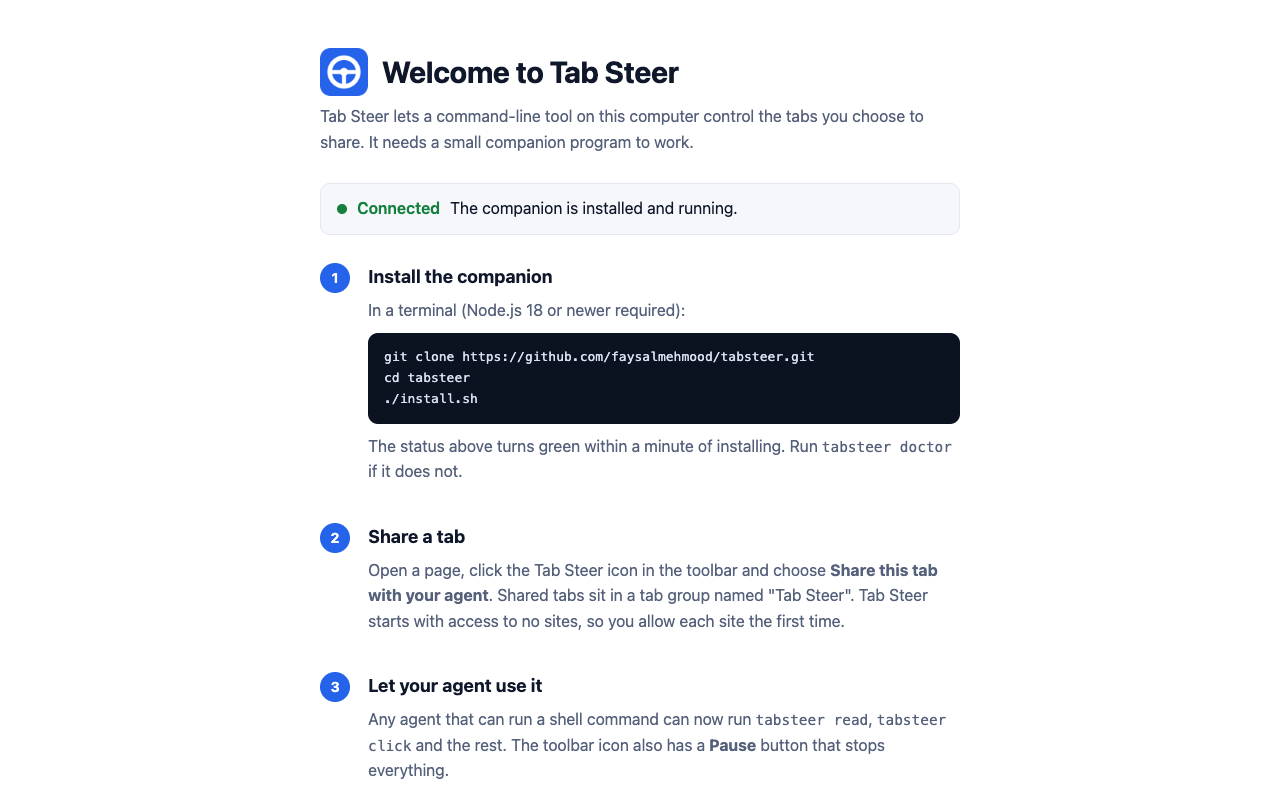
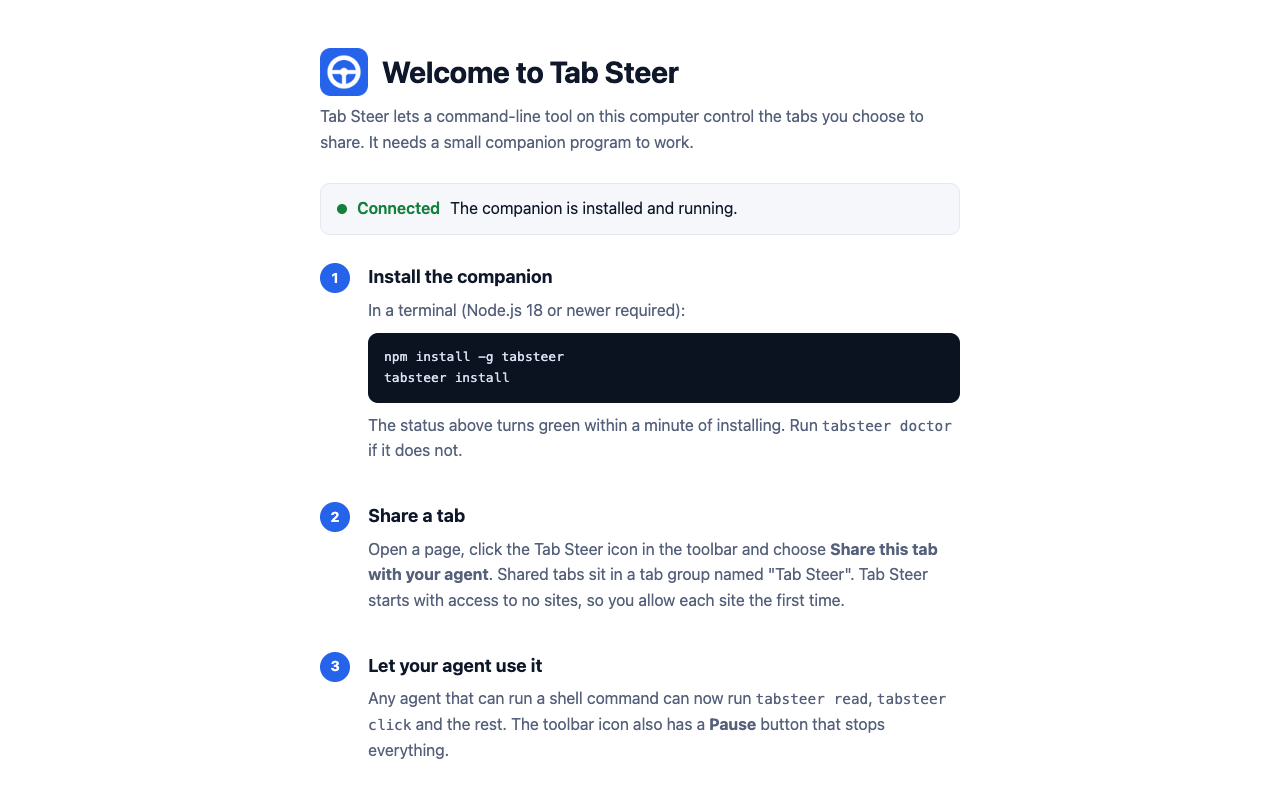
Release 0.1.1: npm install steps in the extension, looser version check
The welcome page and popup now tell users to install the companion from
npm. tabsteer doctor accepts an extension and CLI that share a major.minor
version, since the two update through different channels. The install
message no longer tells Chrome Web Store users to load the extension by hand.

Changed region(s): [[0.25, 0.625, 0.75, 0.7812], [0.2812, 0.4375, 0.75, 0.5938], [0.25, 0.8125, 0.75, 0.9688]]

diff --git a/lib/setup.js b/lib/setup.js
@@ -114,13 +114,14 @@ function install({ flags }) {
   }
 
   console.log(`
-Last step, in the browser (once):
-  1. Open chrome://extensions and turn on "Developer mode".
-  2. Click "Load unpacked" and choose:
-     ${EXTENSION_DIR}
-  3. Click the Tab Steer toolbar icon on a tab and share it.
+Next, the extension:
+  If you installed Tab Steer from the Chrome Web Store, it connects within a minute.
+  Otherwise load it by hand:
+    1. Open chrome://extensions and turn on "Developer mode".
+    2. Click "Load unpacked" and choose:
+       ${EXTENSION_DIR}
 
-Then check everything with: tabsteer doctor`);
+Then click the Tab Steer toolbar icon on a tab to share it, and check the setup with: tabsteer doctor`);
 }
 
 function uninstall() {
@@ -191,7 +192,9 @@ async function doctor({ request }) {
     status = await request('status');
   } catch (e) {}
   if (check(!!status, 'Extension is connected', 'Open the browser, load the extension from chrome://extensions, and make sure it is enabled.')) {
-    check(status.version === VERSION, `Extension version matches (${status.version})`, 'Reload the extension in chrome://extensions.');
+    // The extension and this tool update separately, so patch versions may differ.
+    const series = (v) => String(v).split('.').slice(0, 2).join('.');
+    check(series(status.version) === series(VERSION), `Extension ${status.version} works with tabsteer ${VERSION}`, 'Update both: "npm install -g tabsteer", and update or reload the extension.');
     console.log(`  ${status.paused ? 'Paused by the user' : 'Not paused'}, ${status.sharedTabs} shared tab(s)`);
   }
 

diff --git a/docs/index.html b/docs/index.html
@@ -150,8 +150,8 @@ Clicked link "new" @kq2</pre>
       <h2>Install</h2>
       <p class="sub">Requires Node.js 18 or newer. Tab Steer is at an early 0.1 release and is loaded as an unpacked extension for now.</p>
       <div class="term">
-<pre><span class="dim">$</span> git clone https://github.com/faysalmehmood/tabsteer.git
-<span class="dim">$</span> cd tabsteer &amp;&amp; ./install.sh
+<pre><span class="dim">$</span> npm install -g tabsteer
+<span class="dim">$</span> tabsteer install
 <span class="dim">$</span> tabsteer doctor</pre>
       </div>
       <p class="meta">Then open <code>chrome://extensions</code>, turn on Developer mode, choose <strong>Load unpacked</strong> and select the <code>extension</code> folder. Full steps are in the <a href="https://github.com/faysalmehmood/tabsteer#install">README</a>.</p>

diff --git a/extension/popup.html b/extension/popup.html
@@ -57,7 +57,7 @@
 
   <section id="setup" hidden>
     <p class="note"><strong>The command-line companion isn't running.</strong><br>
-      In a terminal, run <code>./install.sh</code> from the Tab Steer folder, then reopen this window.
+      In a terminal, run <code>npm install -g tabsteer</code> and then <code>tabsteer install</code>.
       <a href="welcome.html" target="_blank">Setup guide</a></p>
     <p class="note" id="host-error"></p>
   </section>

diff --git a/extension/welcome.html b/extension/welcome.html
@@ -40,9 +40,8 @@
     <li>
       <h2>Install the companion</h2>
       <p>In a terminal (Node.js 18 or newer required):</p>
-      <pre>git clone https://github.com/faysalmehmood/tabsteer.git
-cd tabsteer
-./install.sh</pre>
+      <pre>npm install -g tabsteer
+tabsteer install</pre>
       <p>The status above turns green within a minute of installing. Run <code>tabsteer doctor</code> if it does not.</p>
     </li>
     <li>

diff --git a/store/listing.md b/store/listing.md
@@ -1,7 +1,7 @@
 # Chrome Web Store listing
 
 Copy these into the Developer Dashboard. Files to upload are in this folder,
-and the zip comes from `scripts/package-extension.sh`.
+and the zip comes from `scripts/package-extension.sh` (current: `dist/tabsteer-extension-0.1.1.zip`).
 
 ## Store listing tab
 
@@ -104,7 +104,7 @@ https://tabsteer.conceptlix.com/privacy.html
 The extension needs its companion program, which is open source.
 
 1. On macOS or Linux with Node.js 18 or newer, run:
-   `git clone https://github.com/faysalmehmood/tabsteer.git && cd tabsteer && ./install.sh`
+   `npm install -g tabsteer && tabsteer install`
 2. Install the extension from its store page.
 3. The welcome page opens and shows "Connected" within a minute.
 4. Open https://example.com, click the Tab Steer toolbar icon, choose "Share this tab with your agent" and accept the site permission prompt.

diff --git a/README.md b/README.md
@@ -9,7 +9,7 @@
 [![Tests](https://github.com/faysalmehmood/tabsteer/actions/workflows/test.yml/badge.svg)](https://github.com/faysalmehmood/tabsteer/actions/workflows/test.yml)
 [![License](https://img.shields.io/badge/license-Apache--2.0-blue.svg)](LICENSE)
 ![Platforms](https://img.shields.io/badge/platform-macOS%20%7C%20Linux-lightgrey.svg)
-![Version](https://img.shields.io/badge/version-0.1.0-informational.svg)
+![Version](https://img.shields.io/badge/version-0.1.1-informational.svg)
 
 [Website](https://tabsteer.conceptlix.com) · [Install](#install) · [Commands](#commands) · [Safety model](#safety-model) · [Threat model](docs/threat-model.md)
 
